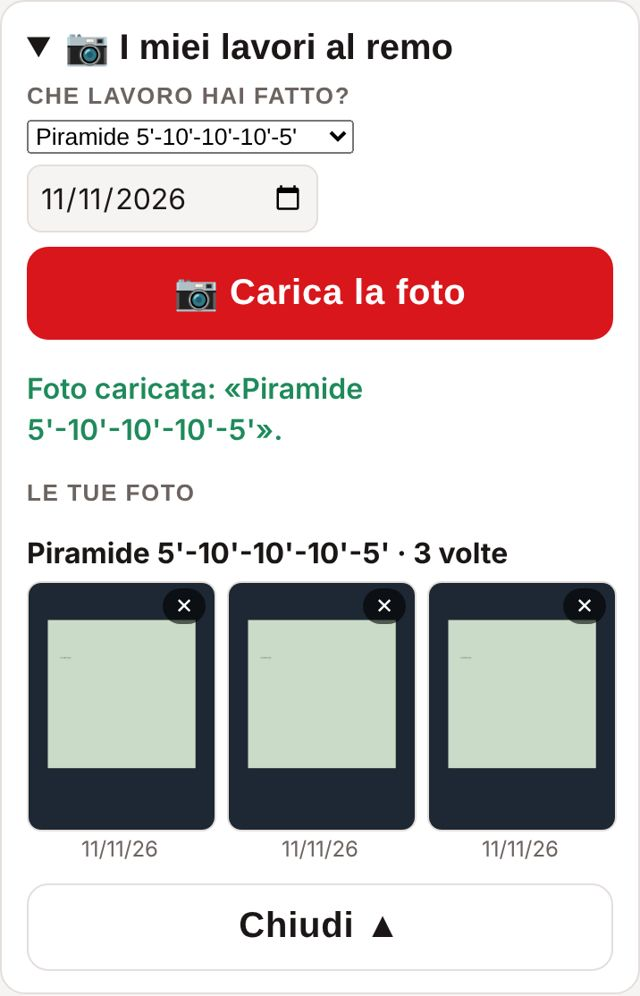
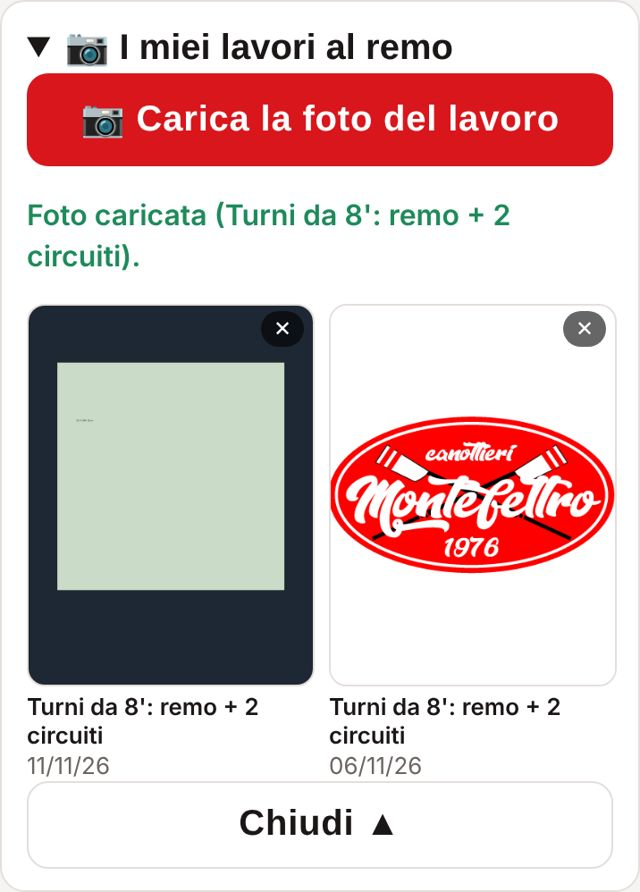
Foto lavori: solo caricamento, abbinamento automatico al lavoro del giorno, galleria
Claude-Session: https://claude.ai/code/session_01LLjiZAqZgs98xeXXrVTLAP

diff --git a/index.html b/index.html
@@ -86,6 +86,7 @@ tr.regp{cursor:pointer}.onep{display:grid;gap:2px;padding:4px 0 8px}.onep div{di
 .regchk{display:grid;grid-template-columns:1fr 1fr;gap:4px 10px}.regchk label{display:flex;align-items:center;gap:6px;font-size:15px}
 .late{margin-top:10px}.late summary{cursor:pointer;color:var(--muted);font-size:14px;text-decoration:underline}
 #testTab{overflow-x:auto;max-width:100%}
+.lavfeed{display:grid;grid-template-columns:repeat(2,1fr);gap:10px;margin-top:12px}.lavitem{position:relative;margin:0}.lavitem img{width:100%;aspect-ratio:3/4;object-fit:cover;border-radius:10px;border:1px solid var(--line);display:block;background:var(--bg)}.lavitem figcaption{font-size:13px;line-height:1.25;margin-top:4px}.lavitem figcaption b{display:block;font-weight:600}.lavitem figcaption span{color:var(--muted)}
 .lavgrid{display:grid;grid-template-columns:repeat(3,1fr);gap:8px;margin:4px 0 10px}.lavgrid.sm{grid-template-columns:repeat(4,1fr)}.lavph{position:relative;margin:0}.lavph img{width:100%;aspect-ratio:3/4;object-fit:cover;border-radius:8px;border:1px solid var(--line);background:var(--bg);display:block}.lavph figcaption{font-size:12px;color:var(--muted);text-align:center;margin-top:2px}.lavx{position:absolute;top:4px;right:4px;border:0;border-radius:999px;background:rgba(0,0,0,.6);color:#fff;font-size:12px;padding:3px 7px;cursor:pointer}.lavt{font-weight:700;margin:10px 0 4px}.lavprev{margin-top:10px;border-top:1px dashed var(--line);padding-top:8px}label.btn{display:inline-flex;align-items:center;justify-content:center;cursor:pointer}
 .tt3 .rn{font-weight:700;min-width:26px;color:var(--muted)}
 #testTab td.yrow{background:var(--bg);font-weight:700;font-size:13px;letter-spacing:.04em;text-transform:uppercase;color:var(--muted);padding-top:10px}
@@ -452,7 +453,7 @@ const API_URL = "https://script.google.com/macros/s/AKfycbyA4VaS3jE8Rqo155aA_-ym
     <div id="persLav"></div>
     <div class="row"><button type="button" class="btn sec" id="persClose">Chiudi</button></div>
   </div></dialog>
-  <div id="coachLink" style="text-align:center"></div><p class="note" id="appVer" style="text-align:center;font-size:12px">Versione dell'app: 11/11/2026 19:27</p>
+  <div id="coachLink" style="text-align:center"></div><p class="note" id="appVer" style="text-align:center;font-size:12px">Versione dell'app: 11/11/2026 19:33</p>
   <details class="coach" id="reg" hidden>
     <summary>Registro presenze</summary>
     <div class="field"><label for="regDate">Giorno</label><input type="date" id="regDate" style="font:inherit;border:1.5px solid var(--line);border-radius:8px;padding:6px;background:var(--bg);color:var(--ink)"></div>
@@ -597,7 +598,7 @@ const API_URL = "https://script.google.com/macros/s/AKfycbyA4VaS3jE8Rqo155aA_-ym
       const gn=groupNote(v.gruppi); if(gn) card.appendChild(gn);
       if(v.note){ const n=document.createElement("p"); n.className="note"; n.textContent=v.note; card.appendChild(n); }
       if(!ex.length && !v.note && !gn){ const n=document.createElement("p"); n.className="note"; n.textContent=isR?"Indicazioni per il remo non ancora inserite.":"L'allenatore non ha ancora inserito gli esercizi per questa isola."; card.appendChild(n); }
-      if(isR&&ex.length){ const ts=[]; ex.forEach(x=>{ const m=/^\s*[—-]+\s*(.+?)\s*[—-]+\s*$/.exec(x); if(m) ts.push(m[1]); }); if(!ts.length) ts.push(ex[0].slice(0,70)); const pv=lavShown?null:prevLav(ts); if(pv){ card.appendChild(pv); lavShown=true; } }
+      if(isR&&!lavShown){ const pv=prevLav(remoTitlesToday()); if(pv){ card.appendChild(pv); lavShown=true; } }
       L.appendChild(card);
     });
     const xc=isYoung(day)?null:extraCard(); if(xc) L.appendChild(xc);
@@ -1056,7 +1057,9 @@ const API_URL = "https://script.google.com/macros/s/AKfycbyA4VaS3jE8Rqo155aA_-ym
   const bigUrl=u=>String(u||"").replace(/sz=w\d+/,"sz=w1600");
   function remoTitlesToday(){ const out=[]; if(!DAYS[day]||DAYS[day].pesi) return out; const D=dayDef(day,group||1);
     D.keys.filter(([k])=>/^R/.test(k)).forEach(([k])=>{ const ex=(norm(data[k]).esercizi||[]).filter(Boolean); let t="";
-      ex.forEach(x=>{ const m=/^\s*[—-]+\s*(.+?)\s*[—-]+\s*$/.exec(x); if(m&&!t) t=m[1]; }); if(!t&&ex.length) t=ex[0].slice(0,70); if(t&&!out.includes(t)) out.push(t); });
+      ex.forEach(x=>{ const m=/^\s*[—-]+\s*(.+?)\s*[—-]+\s*$/.exec(x); if(m&&!t) t=m[1]; }); if(t&&!out.includes(t)) out.push(t); });
+    if(!out.length&&extra&&extra.titolo) out.push(extra.titolo);
+    if(!out.length){ const f=FORMATS[fmtOf(day,group||1)]; if(f&&D.keys.some(([k])=>/^R/.test(k))) out.push(f.nome); }
     return out; }
   function lavGallery(list,onDel){ const W=document.createElement("div"); if(!list.length){ W.innerHTML=`<p class="note">Nessuna foto ancora.</p>`; return W; }
     const groups={}; list.forEach(r=>{ const k=r.chiave||lavKey(r.titolo); (groups[k]=groups[k]||{t:r.titolo,items:[]}).items.push(r); });
@@ -1074,26 +1077,29 @@ const API_URL = "https://script.google.com/macros/s/AKfycbyA4VaS3jE8Rqo155aA_-ym
       const M=1280, r=Math.min(1,M/Math.max(img.width,img.height)); const c=document.createElement("canvas"); c.width=Math.round(img.width*r); c.height=Math.round(img.height*r);
       c.getContext("2d").drawImage(img,0,0,c.width,c.height); return await new Promise(res=>c.toBlob(res,"image/jpeg",0.72)); } finally { URL.revokeObjectURL(url); } }
   function renderLav(){ const S=$("mieiLavori"); if(!S) return; S.hidden=!uid; if(!uid) return; const B=$("lavBody"); B.innerHTML="";
-    const oggi=remoTitlesToday(), lib=alt.filter(a=>a.cat==="remo").map(a=>a.titolo).filter(Boolean).filter(t=>!oggi.includes(t)).sort((a,b)=>a.localeCompare(b,"it",{numeric:true}));
     const f=document.createElement("div"); f.className="lavform";
-    f.innerHTML=`<label class="label">Che lavoro hai fatto?</label><select class="pl" id="lavSel">${oggi.length?`<optgroup label="Oggi">${oggi.map(t=>`<option>${t.replace(/</g,"&lt;")}</option>`).join("")}</optgroup>`:""}${lib.length?`<optgroup label="Libreria remo">${lib.map(t=>`<option>${t.replace(/</g,"&lt;")}</option>`).join("")}</optgroup>`:""}<option value="__altro">Altro (scrivi tu)…</option></select>
-      <input class="pl" id="lavAltro" placeholder="Nome del lavoro" hidden style="margin-top:6px">
-      <div class="row" style="margin-top:6px"><input type="date" class="pl" id="lavData" style="max-width:170px"><label class="btn" id="lavBtn" for="lavFile">📷 Carica la foto</label><input type="file" id="lavFile" accept="image/*" hidden></div>
-      <p class="note" id="lavMsg">Fotografa il monitor del remoergometro alla fine del lavoro: la ritrovi qui quando rifai lo stesso lavoro.</p>`;
-    B.appendChild(f); $("lavData").value=today();
-    $("lavSel").onchange=()=>{ $("lavAltro").hidden=$("lavSel").value!=="__altro"; };
-    $("lavFile").onchange=async()=>{ const fl=$("lavFile").files[0]; if(!fl) return; const sel=$("lavSel").value; const titolo=(sel==="__altro"?$("lavAltro").value:sel).trim();
-      if(!titolo){ $("lavMsg").textContent="Scrivi il nome del lavoro."; return; } $("lavMsg").textContent="Caricamento della foto…"; $("lavBtn").style.opacity=".5";
+    f.innerHTML=`<div class="row"><label class="btn" id="lavBtn" for="lavFile">📷 Carica la foto del lavoro</label><input type="file" id="lavFile" accept="image/*" hidden></div>
+      <p class="note" id="lavMsg">Alla fine del lavoro fotografa il monitor del remoergometro. L'app la abbina da sola al lavoro di oggi.</p>`;
+    B.appendChild(f);
+    $("lavFile").onchange=async()=>{ const fl=$("lavFile").files[0]; if(!fl) return; const titolo=remoTitlesToday()[0]||("Lavoro al remo · "+(DAYS[day]?DAYS[day].nome:""));
+      $("lavMsg").textContent="Caricamento della foto…"; $("lavBtn").style.opacity=".5";
       try{ const bl=await shrink(fl); const up=await window.MF.uploadFoto(bl,"lavoro_"+uid+"_"+Date.now()+".jpg");
-        const rec={id:"l"+Date.now().toString(36),titolo,chiave:lavKey(titolo),data:$("lavData").value||today(),url:up.url,fid:up.id,creato:Date.now()};
-        lavOk={t:Date.now(),m:"Foto caricata: «"+titolo+"»."}; await db.doc("lavori/"+uid).set({lista:myLav.concat([rec])}); }
+        const rec={id:"l"+Date.now().toString(36),titolo,chiave:lavKey(titolo),data:today(),url:up.url,fid:up.id,creato:Date.now()};
+        lavOk={t:Date.now(),m:"Foto caricata ("+titolo+")."}; await db.doc("lavori/"+uid).set({lista:myLav.concat([rec])}); }
       catch(e){ lavOk=null; $("lavMsg").textContent="Foto non caricata: "+((e&&e.message)||"controlla la connessione")+"."; }
       finally{ $("lavBtn").style.opacity=""; $("lavFile").value=""; } };
     if(lavOk&&Date.now()-lavOk.t<10000){ $("lavMsg").textContent=lavOk.m; $("lavMsg").className="ok"; }
-    const h=document.createElement("p"); h.className="label"; h.style.marginTop="14px"; h.textContent="Le tue foto"; B.appendChild(h);
-    B.appendChild(lavGallery(myLav, async id=>{ await db.doc("lavori/"+uid).set({lista:myLav.filter(r=>r.id!==id)}); })); }
+    B.appendChild(lavFeed(myLav, async id=>{ await db.doc("lavori/"+uid).set({lista:myLav.filter(r=>r.id!==id)}); })); }
+  function lavFeed(list,onDel){ const W=document.createElement("div"); W.className="lavfeed"; if(!list.length){ W.innerHTML=`<p class="note">Nessuna foto ancora.</p>`; return W; }
+    list.slice().sort((a,b)=>(b.data||"").localeCompare(a.data||"")||(b.creato||0)-(a.creato||0)).forEach(r=>{ const c=document.createElement("figure"); c.className="lavitem";
+      const a=document.createElement("a"); a.href=bigUrl(r.url); a.target="_blank"; a.rel="noopener"; const im=document.createElement("img"); im.loading="lazy"; im.src=r.url; im.alt="Foto del lavoro"; a.appendChild(im); c.appendChild(a);
+      const fc=document.createElement("figcaption"); fc.innerHTML=`<b></b><span></span>`; fc.querySelector("b").textContent=r.titolo||"Lavoro al remo"; fc.querySelector("span").textContent=dLav(r.data); c.appendChild(fc);
+      if(onDel){ const x=document.createElement("button"); x.type="button"; x.className="lavx"; x.textContent="✕"; x.title="Togli questa foto";
+        x.onclick=()=>{ if(!x.dataset.ok){ x.dataset.ok="1"; x.textContent="Togli?"; setTimeout(()=>{ x.dataset.ok=""; x.textContent="✕"; },3000); return; } onDel(r.id); }; c.appendChild(x); }
+      W.appendChild(c); });
+    return W; }
   let lavOk=null, lavShown=false;
-  function prevLav(titles){ if(!uid||!myLav.length) return null; const ks=titles.map(lavKey); const list=myLav.filter(r=>ks.includes(r.chiave||lavKey(r.titolo)));
+  function prevLav(titles){ if(!uid||!myLav.length) return null; const ks=titles.map(lavKey); const list=myLav.filter(r=>ks.includes(r.chiave||lavKey(r.titolo))&&r.data!==today());
     if(!list.length) return null; const d=document.createElement("div"); d.className="lavprev"; const p=document.createElement("p"); p.className="label"; p.textContent="📷 Le tue volte precedenti"; d.appendChild(p);
     const grid=document.createElement("div"); grid.className="lavgrid sm"; list.sort((a,b)=>(b.data||"").localeCompare(a.data||"")).slice(0,4).forEach(r=>{ const c=document.createElement("figure"); c.className="lavph";
       c.innerHTML=`<a href="${bigUrl(r.url)}" target="_blank" rel="noopener"><img loading="lazy" src="${r.url}" alt=""></a><figcaption>${dLav(r.data)}</figcaption>`; grid.appendChild(c); }); d.appendChild(grid); return d; }
@@ -1202,7 +1208,7 @@ Viola; 2013; 4:17.3; 29; 2026-10-16`;
     const T=$("persTest"); T.innerHTML="";
     T.appendChild(testList(allTests[u]||[], async id=>{ await db.doc("test/"+u).set({risultati:(allTests[u]||[]).filter(r=>r.id!==id)}); }));
     T.appendChild(testForm(async r=>{ await db.doc("test/"+u).set({risultati:(allTests[u]||[]).concat([r])}); }));
-    const LV=$("persLav"); if(LV){ LV.innerHTML=""; LV.appendChild(lavGallery(allLav[u]||[], async id=>{ await db.doc("lavori/"+u).set({lista:(allLav[u]||[]).filter(r=>r.id!==id)}); })); }
+    const LV=$("persLav"); if(LV){ LV.innerHTML=""; LV.appendChild(lavFeed(allLav[u]||[], async id=>{ await db.doc("lavori/"+u).set({lista:(allLav[u]||[]).filter(r=>r.id!==id)}); })); }
   }
   $("altCatSel").onchange=()=>{ if(!altDraft) return; altDraft.cat=$("altCatSel").value; $("altExWrap").hidden=!altHasEx(altDraft.cat); };
   $("persAdd").onclick=()=>openAlt(null,persU);

diff --git a/manuale-allenatore.html b/manuale-allenatore.html
@@ -117,7 +117,7 @@ footer{margin-top:36px;color:var(--muted);font-size:14px;text-align:center}
   <p>Accanto a ogni atleta tocca <b>📋 Programma e test</b> (si chiude con ✕ in alto, toccando fuori o con Chiudi):</p>
   <ul><li><b>Nuovo allenamento personale:</b> tipo Remoergometro, Pesi, Circuito, Bike o Corsa, titolo e descrizione; per pesi e circuito anche gli esercizi dalle immagini. Lo vede solo lui, nel riquadro blu sotto la presenza.</li>
   <li><b>Test:</b> i suoi risultati e la cronologia; puoi aggiungere un test per lui o cancellarne uno sbagliato.</li>
-  <li><b>📷 Lavori al remo:</b> le foto del monitor che il ragazzo ha caricato, divise per lavoro e con la data; tocca una foto per ingrandirla, ✕ (due volte) per toglierla. I ragazzi le caricano da «📷 I miei lavori al remo» e quando rifanno lo stesso lavoro le ritrovano sotto il riquadro del remo («Le tue volte precedenti»). Il lavoro viene riconosciuto dal titolo che metti prendendolo dalla 📚 libreria (la riga «— Titolo —»). Le foto finiscono nella cartella Drive «Montefeltro Allenamento - file / Lavori remo».</li></ul>
+  <li><b>📷 Lavori al remo:</b> le foto del monitor che il ragazzo ha caricato, dalla più recente, con il nome del lavoro e la data; tocca una foto per ingrandirla, ✕ (due volte) per toglierla. I ragazzi caricano solo la foto da «📷 I miei lavori al remo»: l'app la abbina da sola al lavoro del giorno, cioè al titolo «— Titolo —» che metti nell'isola remo prendendolo dalla 📚 libreria (se non c'è, al nome dell'allenamento in aggiunta o della rotazione). Quando lo stesso lavoro torna, lo ritrovano sotto il riquadro del remo («Le tue volte precedenti»). Le foto finiscono nella cartella Drive «Montefeltro Allenamento - file / Lavori remo».</li></ul>
 </div><div class="shots"><img src="tutorial/c11_scheda_atleta.jpg" alt=""><img src="tutorial/c12_nuovo_personale.jpg" alt=""></div></div>
 
 <div class="step"><div>

diff --git a/tutorial.html b/tutorial.html
@@ -128,9 +128,8 @@ footer{margin-top:36px;color:var(--muted);font-size:14px;text-align:center}
 <div class="step"><div>
   <div class="n">9b · Lavori al remo</div>
   <h3>📷 Le foto dei tuoi lavori al remo</h3>
-  <p>Alla fine di un lavoro al remoergometro apri <b>📷 I miei lavori al remo</b>:</p>
-  <ol><li>Scegli il lavoro che hai fatto (quello di oggi è già proposto; altrimenti dalla libreria o «Altro»)</li><li>Tocca <b>📷 Carica la foto</b> e fotografa il monitor del remoergometro</li></ol>
-  <p>Le foto restano divise per lavoro. Quando rifai lo stesso lavoro, sotto il riquadro del remo trovi <b>«Le tue volte precedenti»</b>: tocca una foto per vederla grande. Con ✕ (due volte) togli una foto sbagliata.</p>
+  <p>Alla fine del lavoro al remoergometro apri <b>📷 I miei lavori al remo</b> e tocca <b>📷 Carica la foto del lavoro</b>: fotografa il monitor. Non devi scegliere niente: l'app la abbina da sola al lavoro di quel giorno.</p>
+  <p>Sotto trovi tutte le tue foto, dalla più recente, con il nome del lavoro e la data: scorrile e tocca una foto per vederla grande. Quando rifai lo stesso lavoro, sotto il riquadro del remo compare <b>«Le tue volte precedenti»</b>. Con ✕ (due volte) togli una foto sbagliata.</p>
 </div><div class="shots"><img src="tutorial/a16_lavori.jpg" alt="I miei lavori al remo"><img src="tutorial/a17_precedenti.jpg" alt="Le tue volte precedenti"></div></div>
 
 <div class="step"><div>
